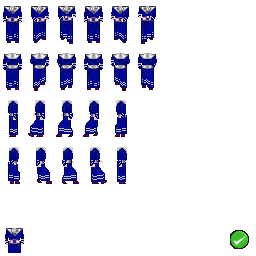
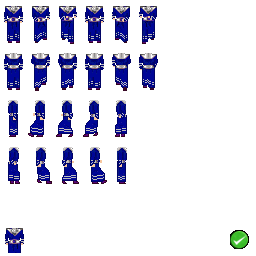
Se muestran barras de vida, mana, oro y xp

Changed region(s): [[0.0, 0.0, 0.625, 0.3438]]

diff --git a/client/GameScreen.cpp b/client/GameScreen.cpp
@@ -757,6 +757,136 @@ void GameScreen::renderInventoryPanel() {
         renderer.Copy(itemsTex, SDL2pp::Rect(ref.srcX, ref.srcY, ref.srcW, ref.srcH),
                       SDL2pp::Rect(dstX, dstY, dstW, dstH));
     }
+
+    // Barras de vida/mana justo debajo del grid del inventario.
+    renderResourceBars(invX, invY, INV_W, INV_H, scale);
+}
+
+void GameScreen::renderResourceBars(int invX, int invY, int invW, int invH, float scale) {
+    // Geometria base (px a 600 de alto), escalada con uiScale().
+    const int BAR_H = (int)(22 * scale);
+    const int BAR_GAP = (int)(8 * scale);
+    const int TOP_MARGIN = (int)(14 * scale);
+    const int ICON = (int)(28 * scale);
+    const int ICON_GAP = (int)(6 * scale);
+    const int BORDER = std::max(2, (int)(3 * scale));
+
+    int iconX = invX;
+    int barX = invX + ICON + ICON_GAP;
+    int barW = invW - ICON - ICON_GAP;
+    int barY = invY + invH + TOP_MARGIN;
+
+    SDL2pp::Texture& frame = cache.get("/Pantallas/barra.png");
+    frame.SetColorMod(255, 255, 255);
+
+    // Pequeño helper local para dibujar una barra (frame + relleno + icono + texto).
+    auto drawBar = [&](int y, uint16_t value, uint16_t maxValue, SDL_Color fill,
+                       SDL2pp::Texture& iconTex, const SDL2pp::Rect& iconSrc) {
+        // Marco de madera de fondo.
+        renderer.Copy(frame, SDL2pp::NullOpt, SDL2pp::Rect(barX, y, barW, BAR_H));
+
+        // Relleno proporcional, recortado dentro del marco.
+        float frac = maxValue > 0 ? (float)value / (float)maxValue : 0.0f;
+        frac = std::clamp(frac, 0.0f, 1.0f);
+        int innerW = barW - 2 * BORDER;
+        int fillW = (int)(innerW * frac);
+        renderer.SetDrawBlendMode(SDL_BLENDMODE_BLEND);
+        // Fondo oscuro de la porción vacía.
+        renderer.SetDrawColor(0, 0, 0, 140);
+        renderer.FillRect(SDL2pp::Rect(barX + BORDER, y + BORDER, innerW, BAR_H - 2 * BORDER));
+        if (fillW > 0) {
+            renderer.SetDrawColor(fill.r, fill.g, fill.b, 235);
+            renderer.FillRect(SDL2pp::Rect(barX + BORDER, y + BORDER, fillW, BAR_H - 2 * BORDER));
+        }
+
+        // Icono a la izquierda, centrado verticalmente respecto a la barra.
+        int iconY = y + (BAR_H - ICON) / 2;
+        renderer.Copy(iconTex, iconSrc, SDL2pp::Rect(iconX, iconY, ICON, ICON));
+
+        // Texto "value/max" centrado sobre la barra.
+        std::string label = std::to_string(value) + "/" + std::to_string(maxValue);
+        try {
+            SDL_Color white = {255, 255, 255, 255};
+            auto surface = chatFont.RenderUTF8_Blended(label, white);
+            SDL2pp::Texture tex(renderer, surface);
+            int tw = tex.GetWidth();
+            int th = tex.GetHeight();
+            renderer.Copy(tex, SDL2pp::NullOpt,
+                          SDL2pp::Rect(barX + (barW - tw) / 2, y + (BAR_H - th) / 2, tw, th));
+        } catch (...) {}
+    };
+
+    // Vida: cruz roja de Signo_vida.png (recorte de la primera cruz, arriba-izq).
+    SDL2pp::Texture& vida = cache.get("/Pantallas/Signo_vida.png");
+    drawBar(barY, health, maxHealth, SDL_Color{200, 40, 40, 255}, vida,
+            SDL2pp::Rect(3, 3, 24, 29));
+
+    // Mana: orbe azul recortado de Mana.png.
+    SDL2pp::Texture& manaIcon = cache.get("/Pantallas/Mana.png");
+    int manaY = barY + BAR_H + BAR_GAP;
+    drawBar(manaY, mana, maxMana, SDL_Color{50, 110, 230, 255}, manaIcon,
+            SDL2pp::Rect(0, 160, 128, 128));
+
+    // Oro: icono (pila de monedas) + cantidad, debajo del mana. Sin barra de
+    // relleno: es un contador, no un recurso acotado.
+    int goldY = manaY + BAR_H + BAR_GAP;
+    int iconY = goldY + (BAR_H - ICON) / 2;
+    renderer.Copy(cache.get("/Pantallas/Items_recolectables.png"),
+                  SDL2pp::Rect(0, 320, 32, 32), SDL2pp::Rect(iconX, iconY, ICON, ICON));
+    try {
+        SDL_Color goldColor = {255, 215, 60, 255};
+        auto surface = chatFont.RenderUTF8_Blended(std::to_string(gold), goldColor);
+        SDL2pp::Texture tex(renderer, surface);
+        int th = tex.GetHeight();
+        renderer.Copy(tex, SDL2pp::NullOpt,
+                      SDL2pp::Rect(iconX + ICON + ICON_GAP, goldY + (BAR_H - th) / 2,
+                                   tex.GetWidth(), th));
+    } catch (...) {}
+
+    // Experiencia + nivel, debajo del oro. El nivel va como "badge" en el slot
+    // del icono; la barra muestra el progreso hacia el siguiente nivel.
+    int expY = goldY + BAR_H + BAR_GAP;
+
+    // Badge de nivel: cuadrado oscuro con borde dorado y el número centrado.
+    int badgeY = expY + (BAR_H - ICON) / 2;
+    SDL2pp::Rect badge(iconX, badgeY, ICON, ICON);
+    renderer.SetDrawBlendMode(SDL_BLENDMODE_BLEND);
+    renderer.SetDrawColor(20, 20, 30, 220);
+    renderer.FillRect(badge);
+    renderer.SetDrawColor(255, 215, 60, 255);
+    renderer.DrawRect(badge);
+    try {
+        SDL_Color lvlColor = {255, 235, 150, 255};
+        auto surface = chatFont.RenderUTF8_Blended(std::to_string((int)level), lvlColor);
+        SDL2pp::Texture tex(renderer, surface);
+        int tw = tex.GetWidth();
+        int th = tex.GetHeight();
+        renderer.Copy(tex, SDL2pp::NullOpt,
+                      SDL2pp::Rect(iconX + (ICON - tw) / 2, badgeY + (ICON - th) / 2, tw, th));
+    } catch (...) {}
+
+    // Barra de experiencia: marco de madera + relleno verde proporcional.
+    renderer.Copy(frame, SDL2pp::NullOpt, SDL2pp::Rect(barX, expY, barW, BAR_H));
+    float expFrac = nextLevelExp > 0 ? (float)experience / (float)nextLevelExp : 0.0f;
+    expFrac = std::clamp(expFrac, 0.0f, 1.0f);
+    int innerW = barW - 2 * BORDER;
+    renderer.SetDrawColor(0, 0, 0, 140);
+    renderer.FillRect(SDL2pp::Rect(barX + BORDER, expY + BORDER, innerW, BAR_H - 2 * BORDER));
+    int expFillW = (int)(innerW * expFrac);
+    if (expFillW > 0) {
+        renderer.SetDrawColor(120, 210, 70, 235);
+        renderer.FillRect(SDL2pp::Rect(barX + BORDER, expY + BORDER, expFillW, BAR_H - 2 * BORDER));
+    }
+    try {
+        SDL_Color white = {255, 255, 255, 255};
+        std::string label = std::to_string(experience) + "/" + std::to_string(nextLevelExp);
+        auto surface = chatFont.RenderUTF8_Blended(label, white);
+        SDL2pp::Texture tex(renderer, surface);
+        int tw = tex.GetWidth();
+        int th = tex.GetHeight();
+        renderer.Copy(tex, SDL2pp::NullOpt,
+                      SDL2pp::Rect(barX + (barW - tw) / 2, expY + (BAR_H - th) / 2, tw, th));
+    } catch (...) {}
 }
 
 // Helper: vuelca los itemIds equipados sobre los campos visuales de un Player_

diff --git a/client/GameScreen.h b/client/GameScreen.h
@@ -173,6 +173,10 @@ private:
     // Dibuja el panel derecho del HUD (fondo + inventario).
     void renderInventoryPanel();
 
+    // Dibuja las barras de vida y mana debajo del inventario. Recibe la geometria
+    // del panel del inventario (ya escalada) para alinearse con su ancho.
+    void renderResourceBars(int invX, int invY, int invW, int invH, float scale);
+
     // Mapea una posición del mouse (px de pantalla) al índice de slot del grid
     // del inventario (0..GRID_COLS*GRID_ROWS-1), o -1 si el click cae fuera del
     // panel. Usa la misma geometría que renderInventoryPanel().

diff --git a/client/map_renderer.cpp b/client/map_renderer.cpp
@@ -319,10 +319,8 @@ void MapRenderer::renderHelmet(const Player_& player, float camX, float camY) {
     int hatX = screenX + SPRITE_W / 2 - HAT_CELL_W / 2;
     int hatY = screenY - HEAD_CELL_H / 4 - 3;
 
-    // Ajuste fino por gorro: algunos sprites no quedan centrados en su celda.
-    // hatNudgeX > 0 corre el gorro a la izquierda. Subí/bajá el valor a ojo.
     int hatNudgeX = 0;
-    if (player.helmetId == 38)  // Iron Helmet (con cuernos): su arte cae un poco a la derecha
+    if (player.helmetId == 38)  
         hatNudgeX = 2;
     hatX -= hatNudgeX;
 
